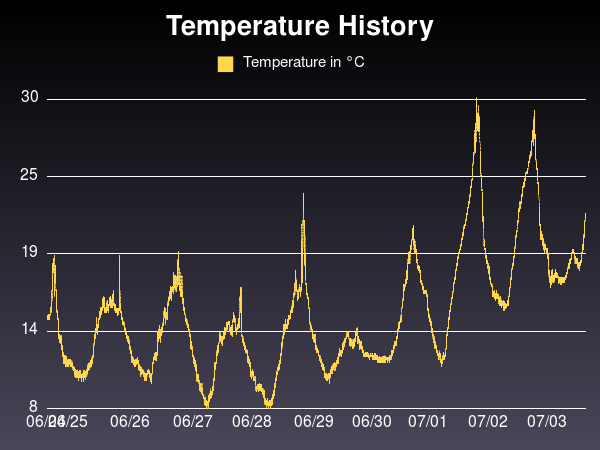
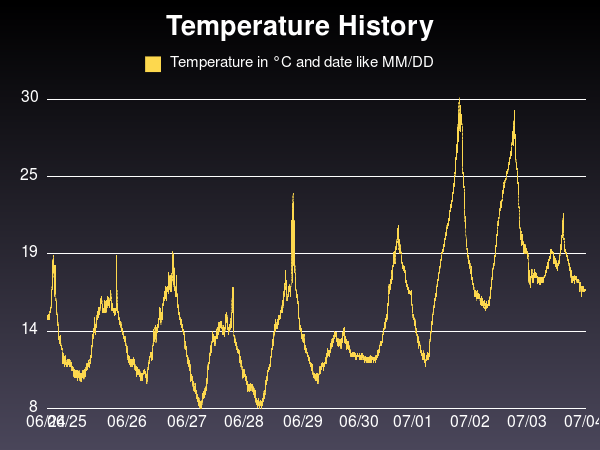
cosmetics again

diff --git a/gruff.rb b/gruff.rb
@@ -10,6 +10,9 @@ as published by Sam Hocevar. See the COPYING file for more details.
 
 %w[gruff csv].each { |g| require g }
 
+SOFTWARE_NAME     = 'Gruff Chart Generator'
+SOFTWARE_VERSION  = 'v0.16'
+
 actual_file = Dir.glob("data/messwerte*").max_by {|f| File.mtime(f)}
 temp_celcius = Array.new()
 graph_date = Hash.new()
@@ -27,7 +30,7 @@ end
 
 g = Gruff::Line.new(600)
 g.title = 'Temperature History'
-g.data('Temperature in °C', temp_celcius)
+g.data('Temperature in °C and date like MM/DD', temp_celcius)
 #g.data('Something', [1, 2, 4, 8, 16, 32, 64, 128])
 g.labels = graph_date
 g.write('public/temperature_celcius_chart.png')

diff --git a/thermometer.rb b/thermometer.rb
@@ -10,6 +10,9 @@ as published by Sam Hocevar. See the COPYING file for more details.
 #%w[sinatra thin data_mapper dm-sqlite-adapter bcrypt].each { |g| require g }
 %w[sinatra thin].each { |g| require g }
 
+SOFTWARE_NAME     = 'Thermometer'
+SOFTWARE_VERSION  = 'v0.16'
+
 configure do
   set :bind, '0.0.0.0'
   set :port, 1234
@@ -48,9 +51,6 @@ helpers do
     @auth.provided? and @auth.basic? and @auth.credentials and @auth.credentials == ['1', '1']
   end
 end
-
-SOFTWARE_NAME     = 'Thermometer'
-SOFTWARE_VERSION  = 'v0.16'
 
 before do
 end
